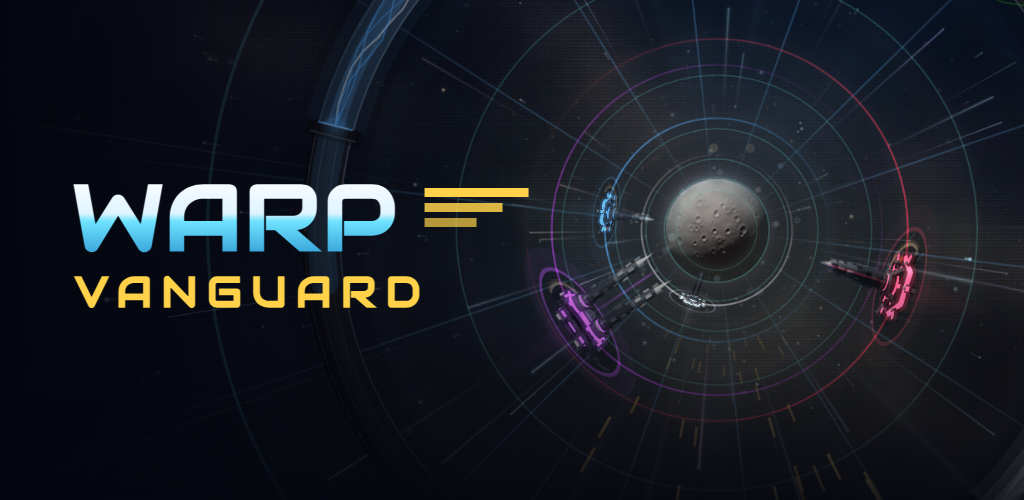
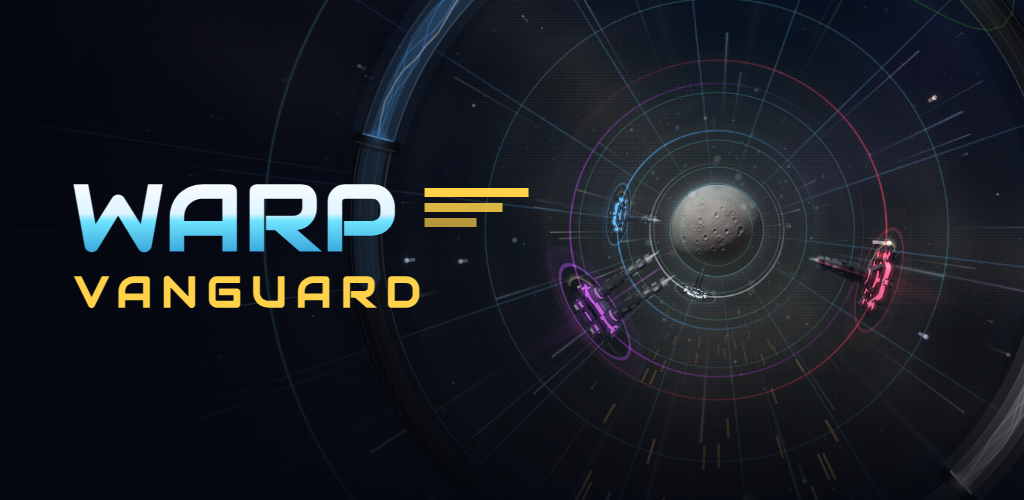
The store frames wear a phone's shape so the pads stand clear of the ring, and a pad's gauge width is capped with the pad so an iPad draws the same console

diff --git a/scripts/store-shoot.js b/scripts/store-shoot.js
@@ -34,13 +34,27 @@ const SAVE_KEY = 'warpVanguard.v1';
 
 // logical size x dpr = the store's pixel size. The logical size is a PHONE's (or
 // an iPad's), so the layout in the frame is the layout a player holds.
+// A PHONE IS NOT 16:9. dialCenter insets the pads from the screen's corners, so on a
+// 16:9 canvas they sit ON the ring; on a real phone (19.5:9 and wider) they stand
+// clear of it. The first cut shot Play at 1920x1080 and every lane frame had the pads
+// over the ring (Gil, 2026-09-21). Play takes anything up to 2:1, so Play is 2:1.
+// `safe` is the device's landscape safe area in CSS px: the game reads it from
+// --sal/--sar/--sab and insets the pads by it, so an iPhone frame without it is a
+// frame no iPhone shows.
+// 47, the notch iPhones' inset (and the one on Gil's phone, measured off his screenshot).
+// The Dynamic Island phones report 62, and BY THE ARITHMETIC of dialCenter a 956x440
+// screen with 62 puts the pad's rim exactly on the ring's. That is INFERRED, not seen on
+// a device — it is worth one look on a 6.9 in iPhone. The 6.9 in slot feeds every
+// smaller iPhone's listing too, so the frame wears the common inset.
+const IPHONE_SAFE = { l: 47, r: 47, t: 0, b: 21 };
 const SIZES = {
-  play:   { w: 960,  h: 540,  dpr: 2, note: 'Google Play phone, 1920x1080 (16:9)' },
-  iphone: { w: 956,  h: 440,  dpr: 3, note: 'App Store iPhone 6.9", 2868x1320' },
-  ipad:   { w: 1376, h: 1032, dpr: 2, note: 'App Store iPad 13", 2752x2064' },
+  play:    { w: 1080, h: 540,  dpr: 2, note: 'Google Play phone, 2160x1080 (2:1, the widest Play takes)' },
+  play169: { w: 960,  h: 540,  dpr: 2, note: 'Google Play 16:9, 1920x1080 — the pads overlap the ring at this shape; on request only', onRequest: true },
+  iphone:  { w: 956,  h: 440,  dpr: 3, safe: IPHONE_SAFE, note: 'App Store iPhone 6.9 in, 2868x1320' },
+  ipad:    { w: 1376, h: 1032, dpr: 2, safe: { l: 0, r: 0, t: 0, b: 20 }, note: 'App Store iPad 13 in, 2752x2064' },
   // video sizes
-  yt:      { w: 960, h: 540, dpr: 2, note: 'YouTube / Play promo video, 1920x1080' },
-  preview: { w: 960, h: 443, dpr: 2, note: 'App Store preview, iPhone, 1920x886' },
+  yt:      { w: 1080, h: 540, dpr: 2, note: 'YouTube / Play promo video, 2160x1080 (2:1)' },
+  preview: { w: 960,  h: 443, dpr: 2, safe: IPHONE_SAFE, note: 'App Store preview, iPhone, 1920x886' },
   previewpad: { w: 800, h: 600, dpr: 2, note: 'App Store preview, iPad, 1600x1200' },
 };
 
@@ -151,6 +165,13 @@ async function bootToMenu(page, origin) {
     if (await cdp.eval(G("typeof frame === 'function' && typeof startLevel === 'function' && typeof s3BreachReady === 'function'")) === true) break;
     if (Date.now() - t0 > 20000) throw new Error('the game never booted');
     await sleep(200);
+  }
+  // the device's safe area, as the shell would report it: set the variables resize() reads,
+  // then make it read them (resize() returns early while the canvas size is unchanged)
+  if (page.S.safe) {
+    const sf = page.S.safe;
+    const r = await cdp.eval(G(`(function(){ const st = document.documentElement.style; st.setProperty('--sal', '${sf.l}px'); st.setProperty('--sar', '${sf.r}px'); st.setProperty('--sat', '${sf.t}px'); st.setProperty('--sab', '${sf.b}px'); lastCw = -1; resize(); return SAFE.l + '/' + SAFE.r + '/' + SAFE.b; })()`));
+    if (r !== sf.l + '/' + sf.r + '/' + sf.b) throw new Error('the safe area did not take: ' + r);
   }
   // fonts, then the hull bake. The bake is budgeted in REAL milliseconds and is
   // pumped from frameBody while the splash is on, so crank and breathe until done.

diff --git a/src/game/85-enemy-art.js b/src/game/85-enemy-art.js
@@ -2928,7 +2928,7 @@ function drawPulseOrbs(g) {
     // READY: the energy wants out. Everything here lives OUTSIDE the meter,
     // around the pad, and everything is soft light under pressure.
     if (ready) {
-      const bz2 = Math.min(W, H) * 0.055;
+      const bz2 = padGauge(); // the corona is measured off the pad, so it wears the pad's cap (60-input)
       ctx.save();
       ctx.globalCompositeOperation = 'lighter';
       // the corona: an aura past the pad rim whose reach TREMBLES on two
@@ -3113,7 +3113,7 @@ function drawPadPrompt(i, d, tut) {
   if (tut) drawDialComet(i);
 }
 function drawDials() {
-  const bz = Math.min(W, H) * 0.055; // pad gauge width
+  const bz = padGauge(); // pad gauge width — capped with the pad itself, see 60-input
   const parked = preLaunch();
   const pr = padsRevealT(); // H-07: 1 unless a briefed pre-warp disc is still revealing its line / landing the pads
   // S.INFO included: the pre-run mission disc is the pre-warp screen (72-tick),

diff --git a/src/game/60-input.js b/src/game/60-input.js
@@ -23,6 +23,13 @@ function dialCenter(side) {
   const m = Math.min(W, H) * 0.17;
   return side === 'L' ? { x: m * 0.95, y: H - m * 0.95, r: m * 0.72 } : { x: W - m * 0.95, y: H - m * 0.95, r: m * 0.72 };
 }
+// THE PAD'S GAUGE WIDTH WEARS THE PAD'S OWN CAP. dialCenter holds a pad at phone
+// scale (hh = min(H, 560)), but the band it is drawn with was min(W, H) * 0.055 —
+// the RING's measure, which keeps growing with the screen. On an iPad the radius
+// stopped at 118 while the band went on to 57, and the console read as a different,
+// fatter pad (Gil, 2026-09-21, off the iPad store frame). On a phone H is under the
+// cap, so not one pixel moves there.
+const padGauge = () => Math.min(W, H, 560) * 0.055;
 // go fullscreen + lock landscape whenever we aren't already — retried on every
 // touch so exiting fullscreen (or a failed first attempt) recovers on the next tap.
 // Works on Android Chrome; iPhone Safari has no element fullscreen — there the

diff --git a/scripts/store-scenes.js b/scripts/store-scenes.js
@@ -56,7 +56,9 @@ const SCENES = {
     hold: 8, auto: 'off',
     arm: () => `combo = 9; score = 18450;
       const k = spawnEnemy(nodes[0].angle, 'normal'); k.z = k.z0 = geo().hitZ + 0.010; k.lock = undefined; k.age = 1.2;`,
-    want: 'bolts.length >= 1 && enemies.filter(e => !e.dead).length >= 8',
+    // combo 10 = the armed kill has LANDED. A bolt alone is not proof: one left over from
+    // the warm-up can still be alive here, and the frame then has no discharge in it.
+    want: 'bolts.length >= 1 && combo >= 10 && enemies.filter(e => !e.dead).length >= 8',
     scan: 30,
     finish: CLEAR + ' ghosts = [];'
   },

diff --git a/docs/STORE-MATERIALS.md b/docs/STORE-MATERIALS.md
@@ -25,7 +25,7 @@ phone's (or an iPad's), so the layout in the frame is the layout a player holds.
 | # | File | Frame | How the frame is found |
 |---|---|---|---|
 | 01 | `01-midrun.png` | Mid run on **stage 23**. Every hull at every depth: standard, both phase locks, armored, a linked pair. One discharge mid-flight. | A live bolt and nine bodies still standing |
-| 02 | `02-boss.png` | The boss of **stage 24**, the Prism, wounded (PULSES 2/6), **both rays lit**, a pulse wave landing | Two rays past their birth burst, both emitters alive, the machine at least one pulse down |
+| 02 | `02-boss.png` | The boss of **stage 24**, the Prism, wounded, **both rays lit**, a pulse wave landing | Two rays past their birth burst, both emitters alive, the machine at least one pulse down |
 | 03 | `03-contracts.png` | The contract carousel, centred on THE SURVEY | Static screen |
 | 04 | `04-stages.png` | The star map and the stage list of THE SURVEY, **stage 13** selected | The lens rides the lane. The frame is inside its dwell at the destination |
 | 05 | `05-volley.png` | A unite-volley: emitters docked, the blast taking a column, `BLAST x6` | The blast between 0.10 s and 0.30 s old |
@@ -33,13 +33,38 @@ phone's (or an iPad's), so the layout in the frame is the layout a player holds.
 
 | Folder | Pixels | Logical size x DPR | Slot |
 |---|---|---|---|
-| `docs/store/raw/play/` | 1920 x 1080 | 960 x 540 x 2 | Google Play phone screenshots (16:9) |
-| `docs/store/raw/iphone/` | 2868 x 1320 | 956 x 440 x 3 | App Store iPhone 6.9" (Apple scales it down for the smaller phones) |
+| `docs/store/raw/play/` | 2160 x 1080 | 1080 x 540 x 2 | Google Play phone screenshots (2:1, the widest shape Play takes) |
+| `docs/store/raw/iphone/` | 2868 x 1320 | 956 x 440 x 3 | App Store iPhone 6.9" (Apple scales it down for the smaller phones). Safe area 47 / 47 / 21 |
 | `docs/store/raw/ipad/` | 2752 x 2064 | 1376 x 1032 x 2 | App Store iPad 13". Required because the target is universal (`TARGETED_DEVICE_FAMILY = "1,2"`) |
 
 `docs/store/feature-graphic.png` is Play's 1024 x 500 banner. It is built by the
 2026-08 compositor ([shot-feature.html](../scripts/shot-feature.html)) on a new bare
 plate, `raw/play/00-feature.png`, that carries the new hulls.
+
+### A phone is not 16:9 — the second cut, 2026-09-21
+
+The first cut shot Play and the video at 1920 x 1080, and every lane frame had **the pads
+over the ring**. Gil saw it against a screenshot off his phone. `dialCenter` insets the
+pads from the corners of the screen, so the distance from a pad to the ring is a function
+of the screen's SHAPE: on 16:9 they collide, on a real phone (19.5:9 and wider) they do
+not. Three changes:
+
+- **Play and the video are 2:1** (2160 x 1080). Play takes any shape up to 2:1, and YouTube
+  takes any shape. `--size=play169` still shoots 1920 x 1080 if a 16:9 slot ever demands
+  it, with the collision in it.
+- **The iPhone frames wear a safe area.** The game insets its pads by `--sal` / `--sar`,
+  so an iPhone frame with no inset is a frame no iPhone shows. The harness sets 47 px, the
+  notch phones' inset and the one on Gil's phone.
+- **INFERRED, not seen:** the Dynamic Island phones report 62 px. By the arithmetic of
+  `dialCenter`, a 956 x 440 screen with 62 puts the pad's rim exactly on the ring's. It
+  needs one look on a 6.9" iPhone or its simulator.
+
+And one fix **in the game**: on the iPad frame the pads had a fat outer band. The pad's
+radius is capped at phone scale (`min(H, 560)`) but its gauge width was the ring's
+measure, `min(W, H) * 0.055`, which has no cap. `padGauge()` in `60-input.js` now carries
+the same cap. On a phone H is under 560, so no pixel moves there. It is render-only, but
+the sim id hashes every byte: no board moves, and the verifier is rebuilt with
+`-- --compatible` before the next AAB, as the standing rule says.
 
 The icon is unchanged: `docs/store/wv-512-store.png` for Play, the asset catalogue for iOS.
 
@@ -67,7 +92,7 @@ The rule of the first set stands.
    frames of draw calls pile up unrastered and the first `toDataURL` pays for all of them.
    It looked like a hang. The crank now snapshots the canvas into a 1-pixel canvas each
    frame. Do **not** use `getImageData` for that: a few readbacks flip the canvas to
-   software raster for good, and a 1920 x 1080 frame then costs 350 ms and not 5 ms.
+   software raster for good, and a full-size frame then costs 350 ms and not 5 ms.
 2. **One large websocket message never arrives.** A 5 MB data URL through Node's built-in
    WebSocket client times out. `grab()` reads the PNG in 768 KB slices.
 
@@ -84,7 +109,7 @@ by [the human bot](../scripts/store-bot.js).
 
 | File | What | Spec |
 |---|---|---|
-| `run-yt.mp4` | The full run: launch on a two-thumb grip, 77 s of lane, LANE CLEARED | 1920 x 1080, 60 fps, H.264, AAC 256 k, 1:26. For YouTube, then the Play promo video field |
+| `run-yt.mp4` | The full run: launch on a two-thumb grip, 77 s of lane, LANE CLEARED | 2160 x 1080 (2:1), 60 fps, H.264, AAC 256 k, 1:26. For YouTube, then the Play promo video field |
 | `cut-preview.mp4` | 29 s from 0:26 of the same run at the iPhone aspect | 1920 x 886, 30 fps, H.264 High, AAC 256 k. The App Store iPhone preview (15 s to 30 s) |
 | `run-preview.mp4` | The full run at the iPhone aspect, the source of the cut | 1920 x 886, 30 fps |
 | `run-yt.json`, `run-preview.json` | The run's record: the bot's event log and one line a second | tracked in git; the video files are not |
@@ -230,7 +255,7 @@ subtitle 23 of 30, promotional text 164 of 170, keywords 98 of 100.
    unlisted, no ads, no age limit.
 3. **An iPad preview video** (1600 x 1200) is one more run: `--video --size=previewpad --fps=30`.
 4. **Store spec numbers drift.** Check them in Play Console and App Store Connect on the day
-   of the upload: Play 16:9 stills from 1920 x 1080 and a 1024 x 500 banner; App Store
+   of the upload: Play stills no wider than 2:1 (these are 2160 x 1080) and a 1024 x 500 banner; App Store
    2868 x 1320 and 2752 x 2064 stills; preview 1920 x 886, 15 s to 30 s, 30 fps.
 5. **The masters are not in git** (95 MB of stills, 600 MB of video). They are in
    `docs/store/raw/` and `docs/store/video/` on Gil's Mac, and one command makes them again.
